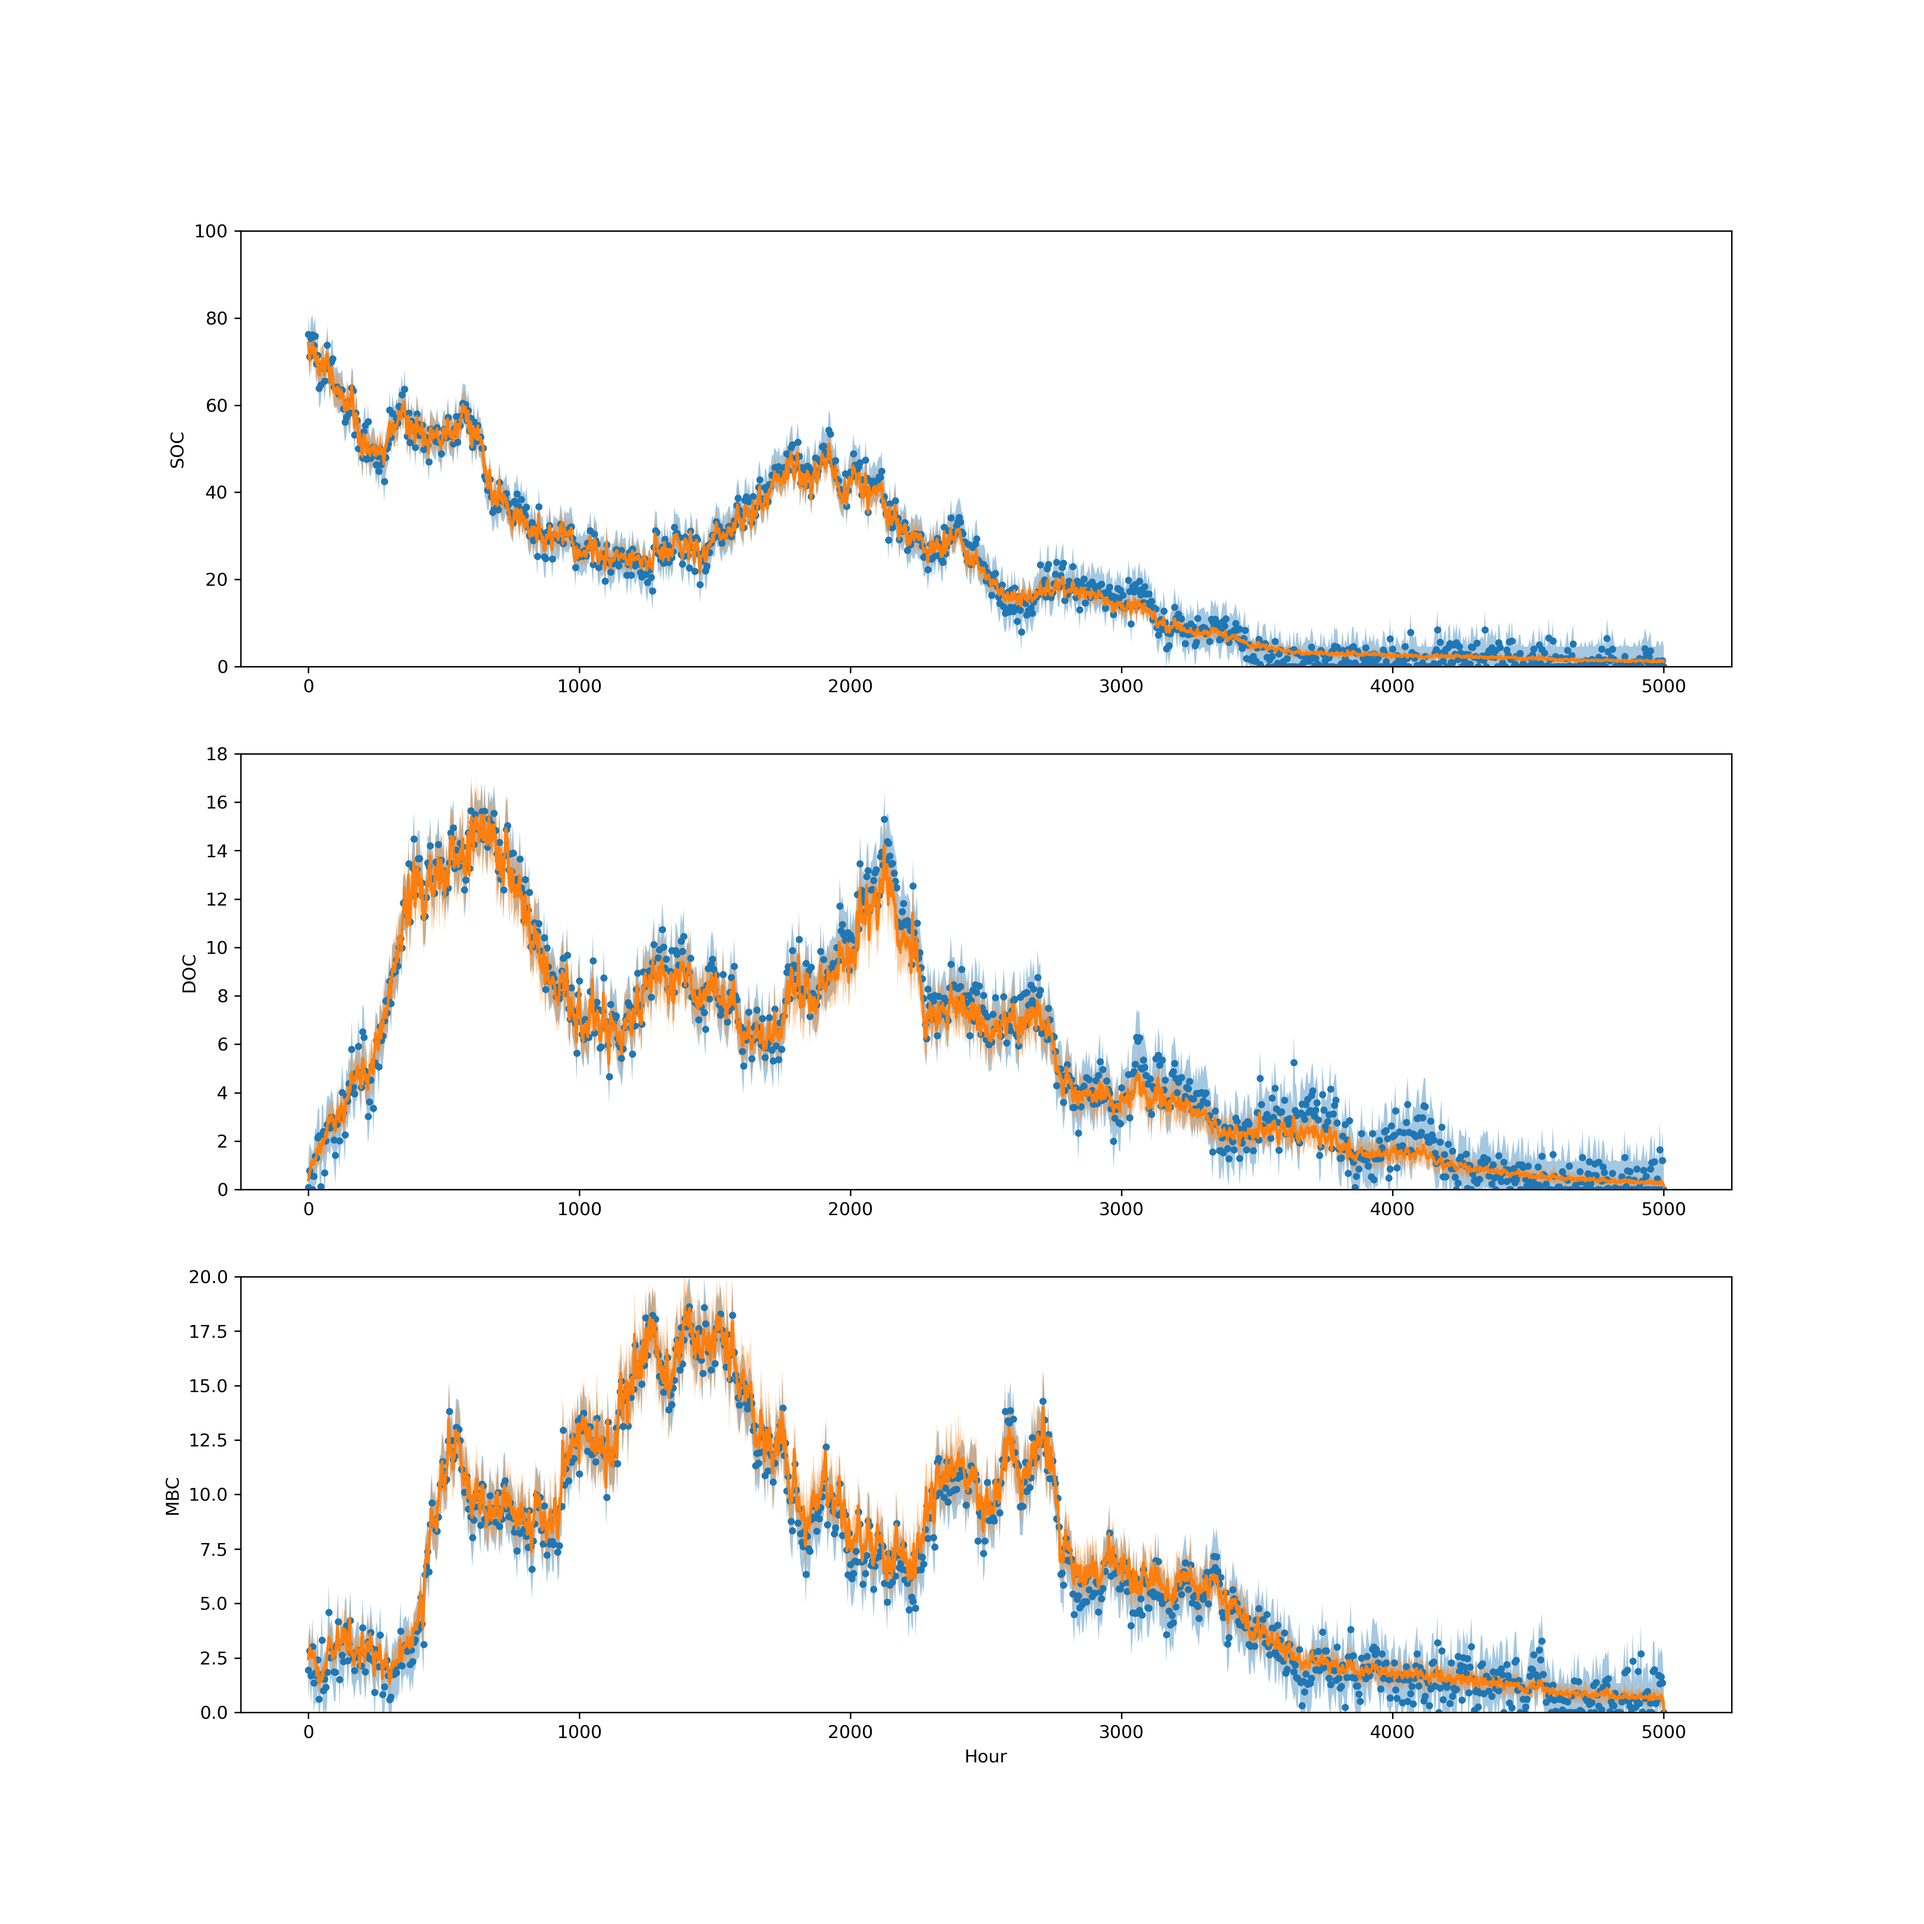
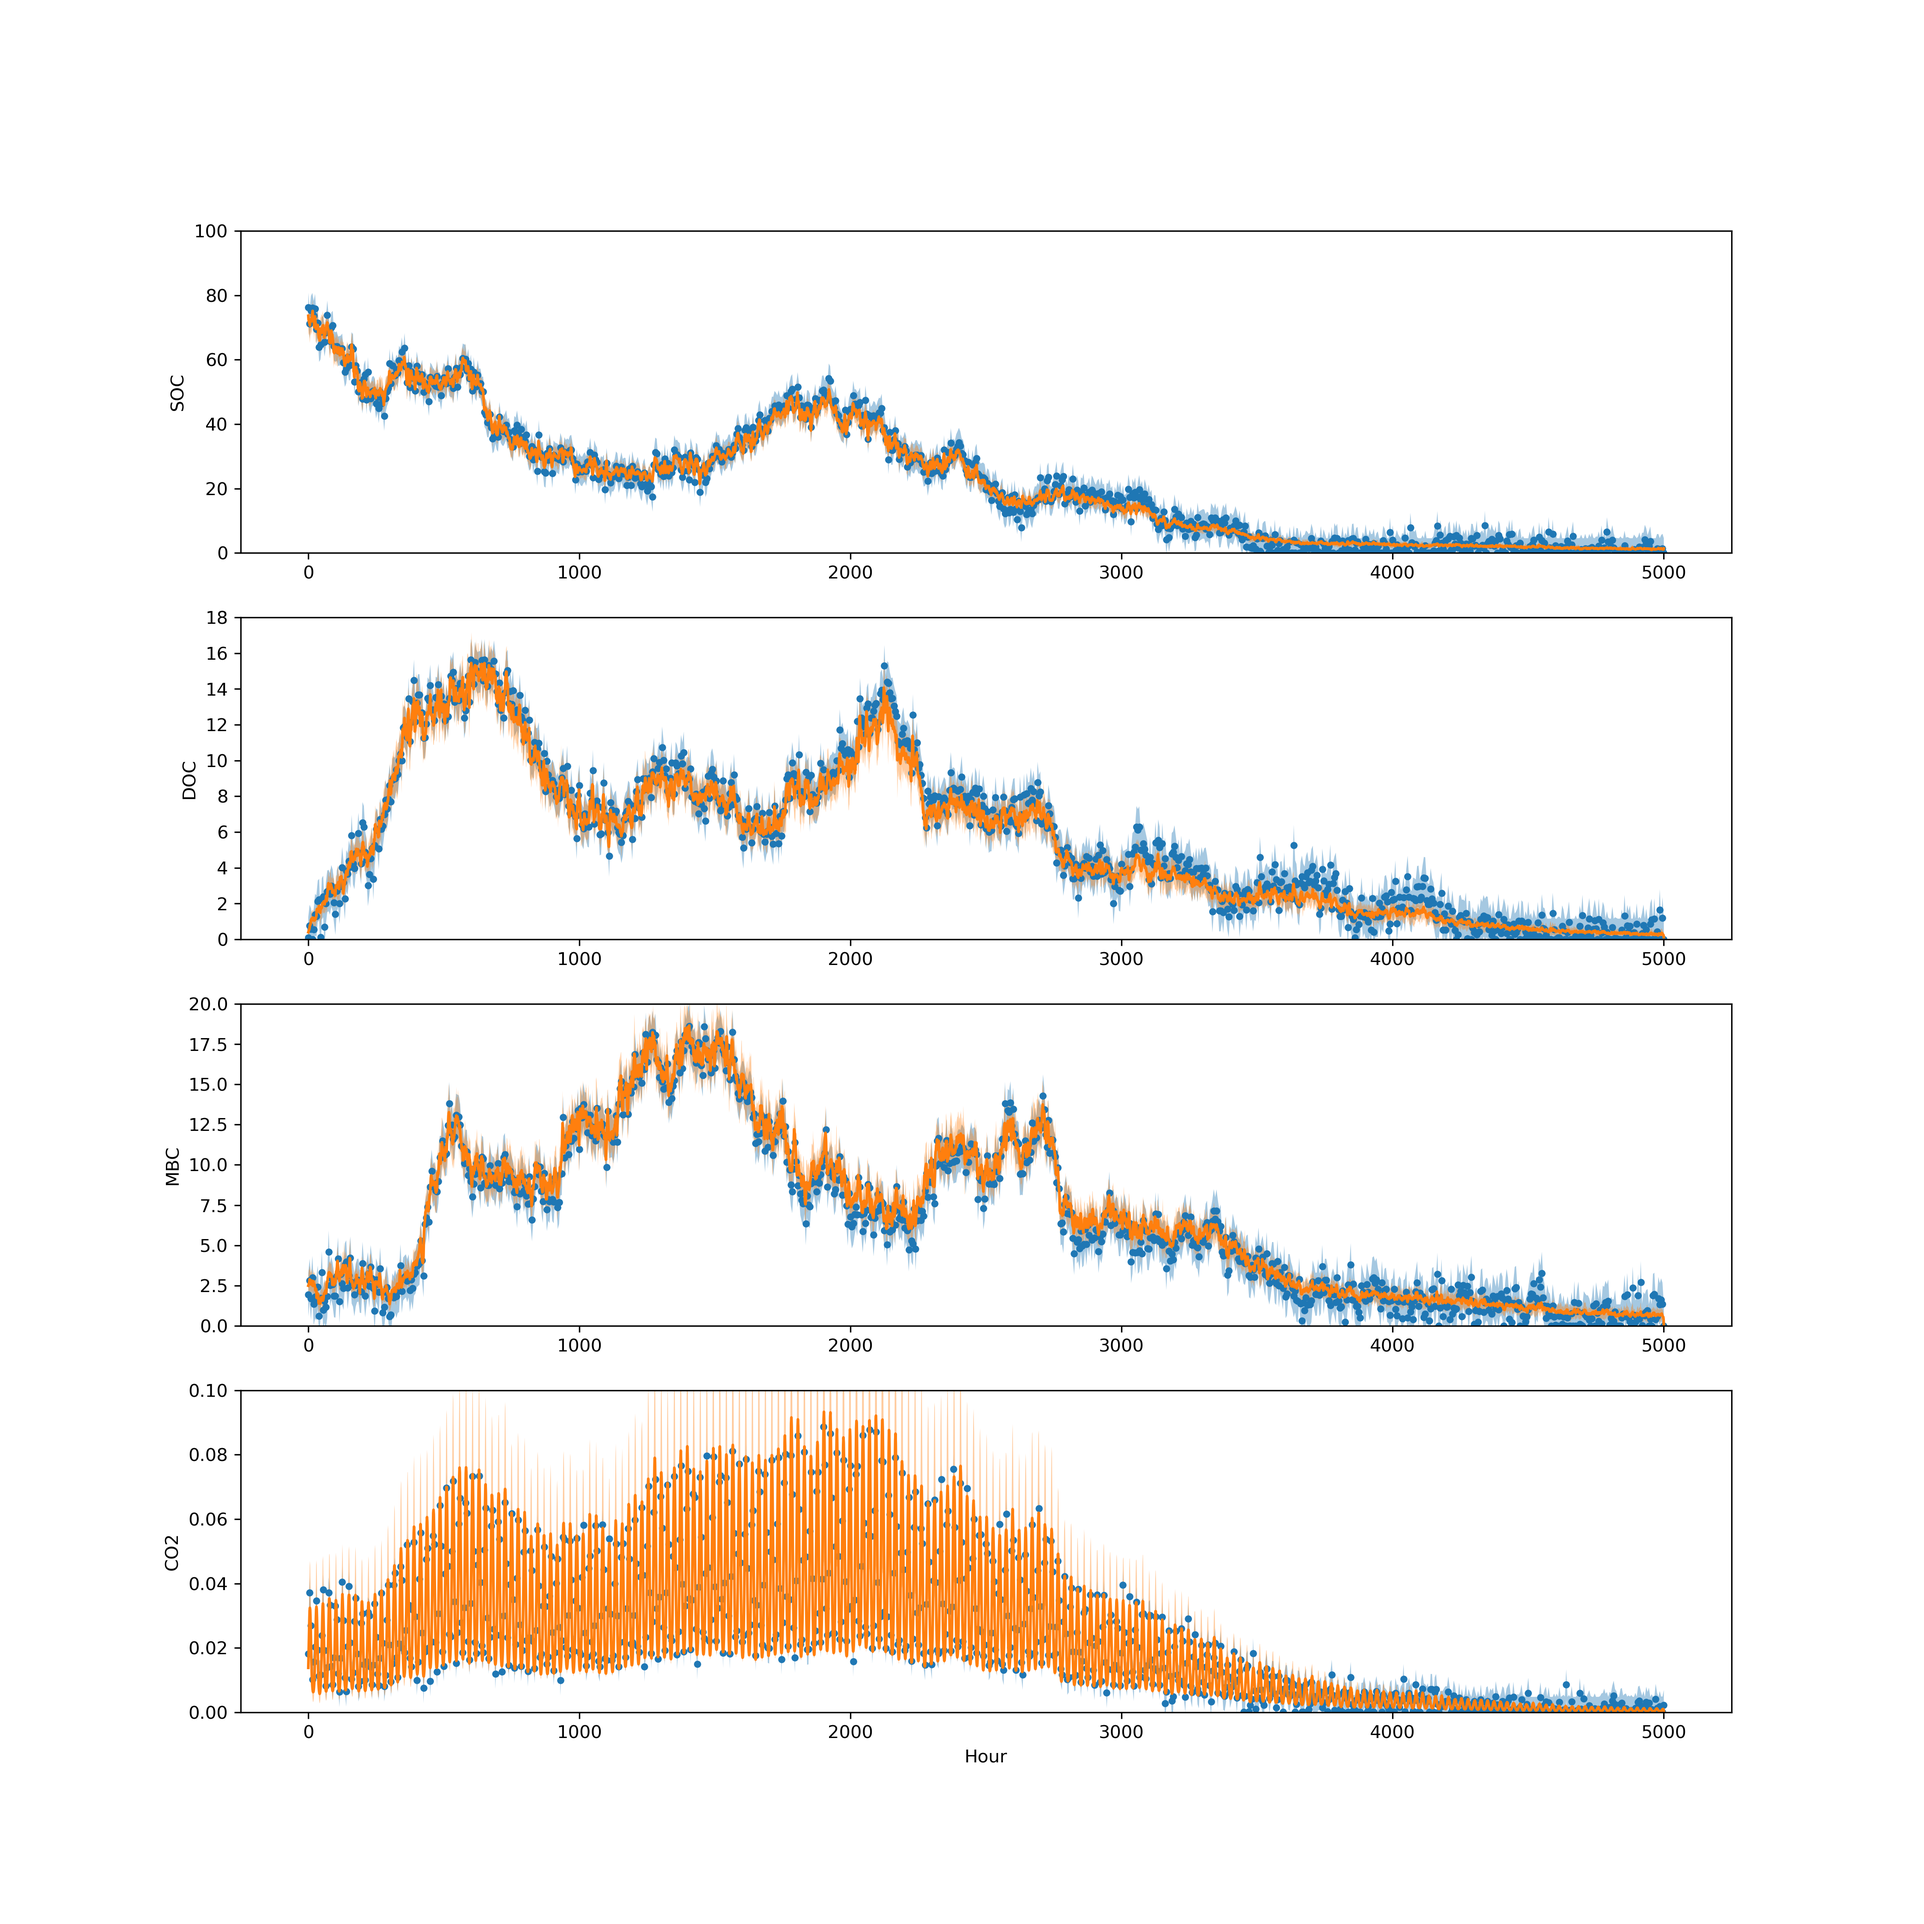
Fixed T = 5000 "old" theta plots.

diff --git a/pytorch_sbm_sde_vi/plot_on_GPU3.py b/pytorch_sbm_sde_vi/plot_on_GPU3.py
@@ -36,7 +36,7 @@ torch.set_printoptions(precision = 8)
 
 #IAF SSM time parameters
 dt_flow = 1.0 #Increased from 0.1 to reduce memory.
-t = 1000 #In hours.
+t = 5000 #In hours.
 
 #Training parameters
 niter = 230000
@@ -48,10 +48,10 @@ prior_scale_factor = 0.333 #Proportion of prior standard deviation to prior mean
 num_layers = 5 #5 - number needed to fit UCI HPC3 RAM requirements with 16 GB RAM at t = 5000.
 learn_CO2 = True
 
-now_string = 'SCON-SS_CO2_trunc_5000_diff_theta_2021_10_14_03_15_47'
+now_string = 'SCON-SS_CO2_trunc_5000_2021_10_15_09_39_49'
 outputs_folder = 'training_pt_outputs/'
 plots_folder = 'training_plots/'
-save_string = '_iter_230000_t_1000_dt_1.0_batch_32_layers_5_lr_2e-05_sd_scale_0.333_SCON-SS_CO2_trunc_5000_diff_theta_2021_10_14_03_15_47.pt'
+save_string = '_iter_230000_t_5000_dt_1.0_batch_32_layers_5_lr_2e-05_sd_scale_0.333_SCON-SS_CO2_trunc_5000_2021_10_15_09_39_49.pt'
 
 net_save_string = os.path.join(outputs_folder, 'net' + save_string)
 q_theta_save_string = os.path.join(outputs_folder, 'q_theta' + save_string)
@@ -68,11 +68,11 @@ q_theta.to(active_device)
 obs_model = torch.load(obs_model_save_string)
 obs_model.to(active_device)
 SBM_SDE_instance = torch.load(SBM_SDE_instance_save_string)
-true_theta = torch.load('generated_data/SCON-SS_CO2_trunc_5000_diff_theta_2021_10_12_16_48_sample_y_t_5000_dt_0-01_sd_scale_0-333_rsample.pt', map_location = active_device)
+true_theta = torch.load('generated_data/SCON-SS_CO2_trunc_5000_2021_10_07_14_22_sample_y_t_5000_dt_0-01_sd_scale_0-333_rsample.pt', map_location = active_device)
 
 #Plot training posterior results and ELBO history.
 net.eval()
 x, _ = net(eval_batch_size)
 
-plot_states_post(x, q_theta, obs_model, SBM_SDE_instance, niter, t, dt_flow, batch_size, eval_batch_size, num_layers, train_lr, prior_scale_factor, plots_folder, now_string, FIX_THETA_DICT = None, LEARN_CO2 = learn_CO2, ymin_list = [0, 0, 0, 0], ymax_list = [150., 20., 40., 0.025])
+plot_states_post(x, q_theta, obs_model, SBM_SDE_instance, niter, t, dt_flow, batch_size, eval_batch_size, num_layers, train_lr, prior_scale_factor, plots_folder, now_string, FIX_THETA_DICT = None, LEARN_CO2 = learn_CO2, ymin_list = [0, 0, 0, 0], ymax_list = [100., 18., 20., 0.1])
 plot_theta(p_theta, q_theta, true_theta, niter, t, dt_flow, batch_size, eval_batch_size, num_layers, train_lr, prior_scale_factor, plots_folder, now_string)
